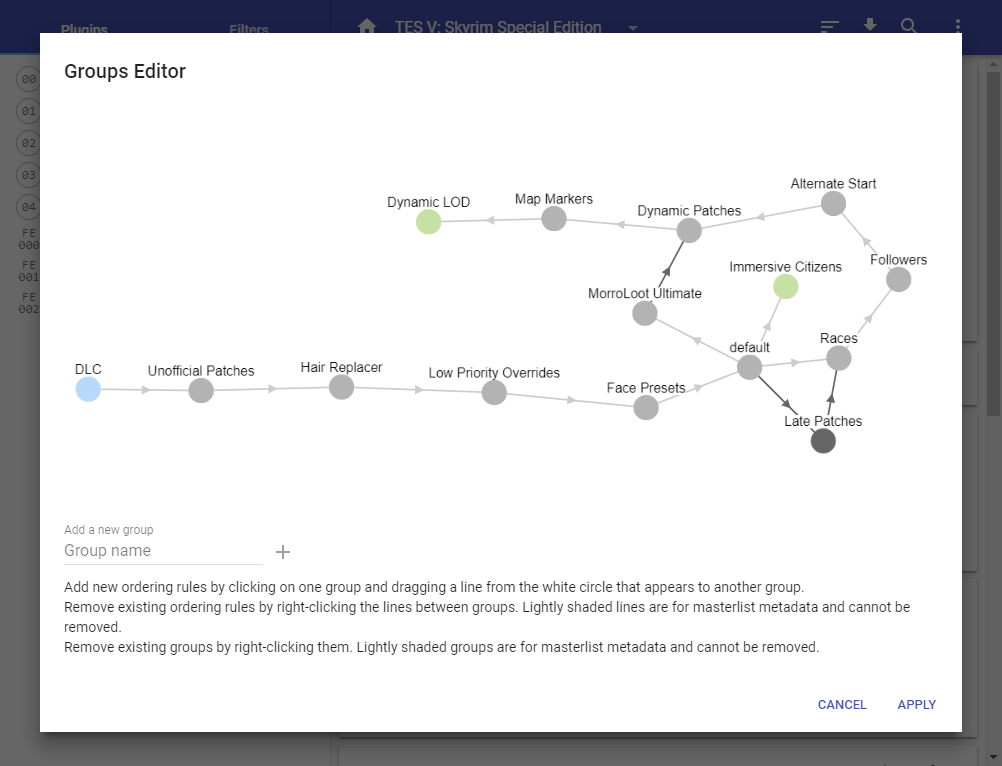
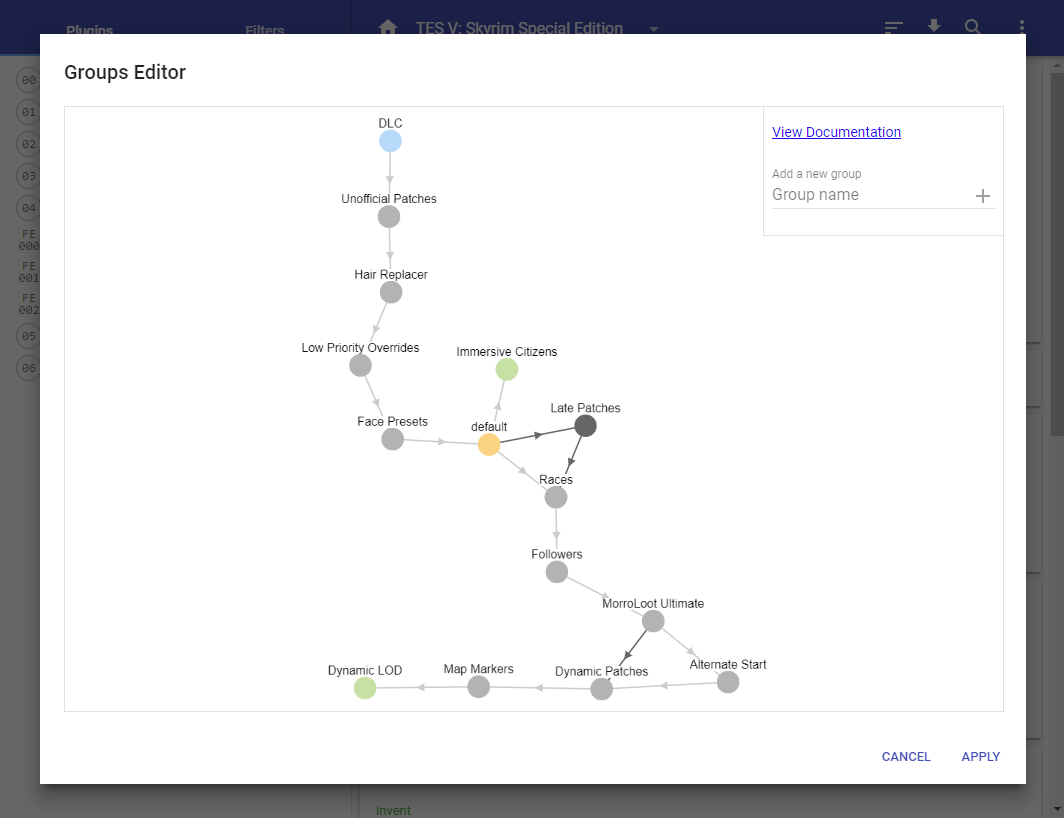
Tweak groups editor UI
Replace the descriptive text with a link to the docs, and free up more
space for the graph.

diff --git a/src/gui/html/elements/loot-groups-editor.js b/src/gui/html/elements/loot-groups-editor.js
@@ -1,6 +1,7 @@
 import cytoscape from 'cytoscape';
 import edgehandles from 'cytoscape-edgehandles';
 import coseBilkent from 'cytoscape-cose-bilkent';
+import { onOpenReadme } from '../js/events.js';
 
 function graphElements(groups) {
   const nodes = groups.map(group => ({
@@ -49,27 +50,34 @@ export default class LootGroupsEditor extends Polymer.Element {
     return Polymer.html`
       <style>
         :host > div {
-          display: flex;
           padding: 0 24px;
           height: calc(100vh - 214px);
           width: calc(100% - 48px);
-          flex-direction: column;
+          position: relative;
         }
         #cy {
-          flex: 1 0 auto;
-          height: calc(100% - 132px);
+          border: var(--divider-color) solid 1px;
+          height: 100%;
           width: 100%;
           position: relative;
         }
         .inputContainer {
-          display: flex;
-          align-items: center;
-          flex-direction: row;
+          position: absolute;
+          top: 0;
+          right: 22px;
+          height: 120px;
+          padding: 0 8px 8px 8px;
+          background: white;
+          border: var(--divider-color) solid 1px;
         }
-        #newGroupInput {
-          height: 72px;
-          position: relative;
-          top: -5px;
+        #groupsHelpText {
+          display: block;
+          margin: 16px 0 12px 0;
+        }
+        #newGroupButton {
+          padding: 0;
+          height: 24px;
+          width: 24px;
         }
         paper-icon-button {
           color: var(--secondary-text-color);
@@ -84,12 +92,11 @@ export default class LootGroupsEditor extends Polymer.Element {
       <div>
         <div id="cy"></div>
         <div class="inputContainer">
-          <paper-input id="newGroupInput" label="Add a new group" placeholder="Group name" always-float-label></paper-input>
-          <paper-icon-button id="newGroupButton" icon="add" disabled></paper-icon-button>
+          <a id="groupsHelpText" href="#">View Documentation</a>
+          <paper-input id="newGroupInput" label="Add a new group" placeholder="Group name" always-float-label>
+            <paper-icon-button id="newGroupButton" icon="add" slot="suffix" disabled></paper-icon-button>
+          </paper-input>
         </div>
-        <div id="addEdgeText">Add new ordering rules by clicking on one group and dragging a line from the white circle that appears to another group.</div>
-        <div id="removeEdgeText">Remove existing ordering rules by right-clicking the lines between groups. Lightly shaded lines are for masterlist metadata and cannot be removed.</div>
-        <div id="removeNodeText">Remove existing groups by right-clicking them. Lightly shaded groups are for masterlist metadata and cannot be removed.</div>
       </div>
     `;
   }
@@ -121,6 +128,8 @@ export default class LootGroupsEditor extends Polymer.Element {
     this.$.newGroupInput.addEventListener('keyup', evt =>
       this._onAddGroup(evt)
     );
+
+    this.$.groupsHelpText.addEventListener('click', onOpenReadme);
 
     cytoscape.use(edgehandles);
     cytoscape.use(coseBilkent);
@@ -255,16 +264,6 @@ export default class LootGroupsEditor extends Polymer.Element {
 
     this.$.newGroupInput.label = l10n.translate('Add a new group');
     this.$.newGroupInput.placeholder = l10n.translate('Group name');
-    this.$.addEdgeText.textContent = l10n.translate(
-      'Add new ordering rules by clicking on one group and dragging a line from the white circle that appears to another group.'
-    );
-    this.$.removeEdgeText.textContent = l10n.translate(
-      'Remove existing ordering rules by right-clicking the lines between groups. Lightly shaded lines are for masterlist metadata and cannot be removed.'
-    );
-    this.$.removeNodeText.textContent = l10n.translate(
-      'Remove existing groups by right-clicking them. Lightly shaded groups are for masterlist metadata and cannot be removed.'
-    );
-
     this.messages.groupAlreadyExists = l10n.translate('Group already exists!');
   }
 
@@ -279,7 +278,7 @@ export default class LootGroupsEditor extends Polymer.Element {
       input = evt.currentTarget;
       button = evt.currentTarget.nextElementSibling;
     } else {
-      input = evt.currentTarget.previousElementSibling;
+      input = evt.currentTarget.parentElement;
       button = evt.currentTarget;
     }
 

diff --git a/src/gui/html/index.html b/src/gui/html/index.html
@@ -402,7 +402,7 @@
   <paper-dialog id="groupsEditorDialog"
                 modal
                 entry-animation="fade-in-animation"
-                exit-animation="fade-out-animation">
+                exit-animation="fade-out-animation" style="width: 100%">
     <h2>Groups Editor</h2>
     <loot-groups-editor id="groupsEditor"></loot-groups-editor>
     <div class="buttons">
